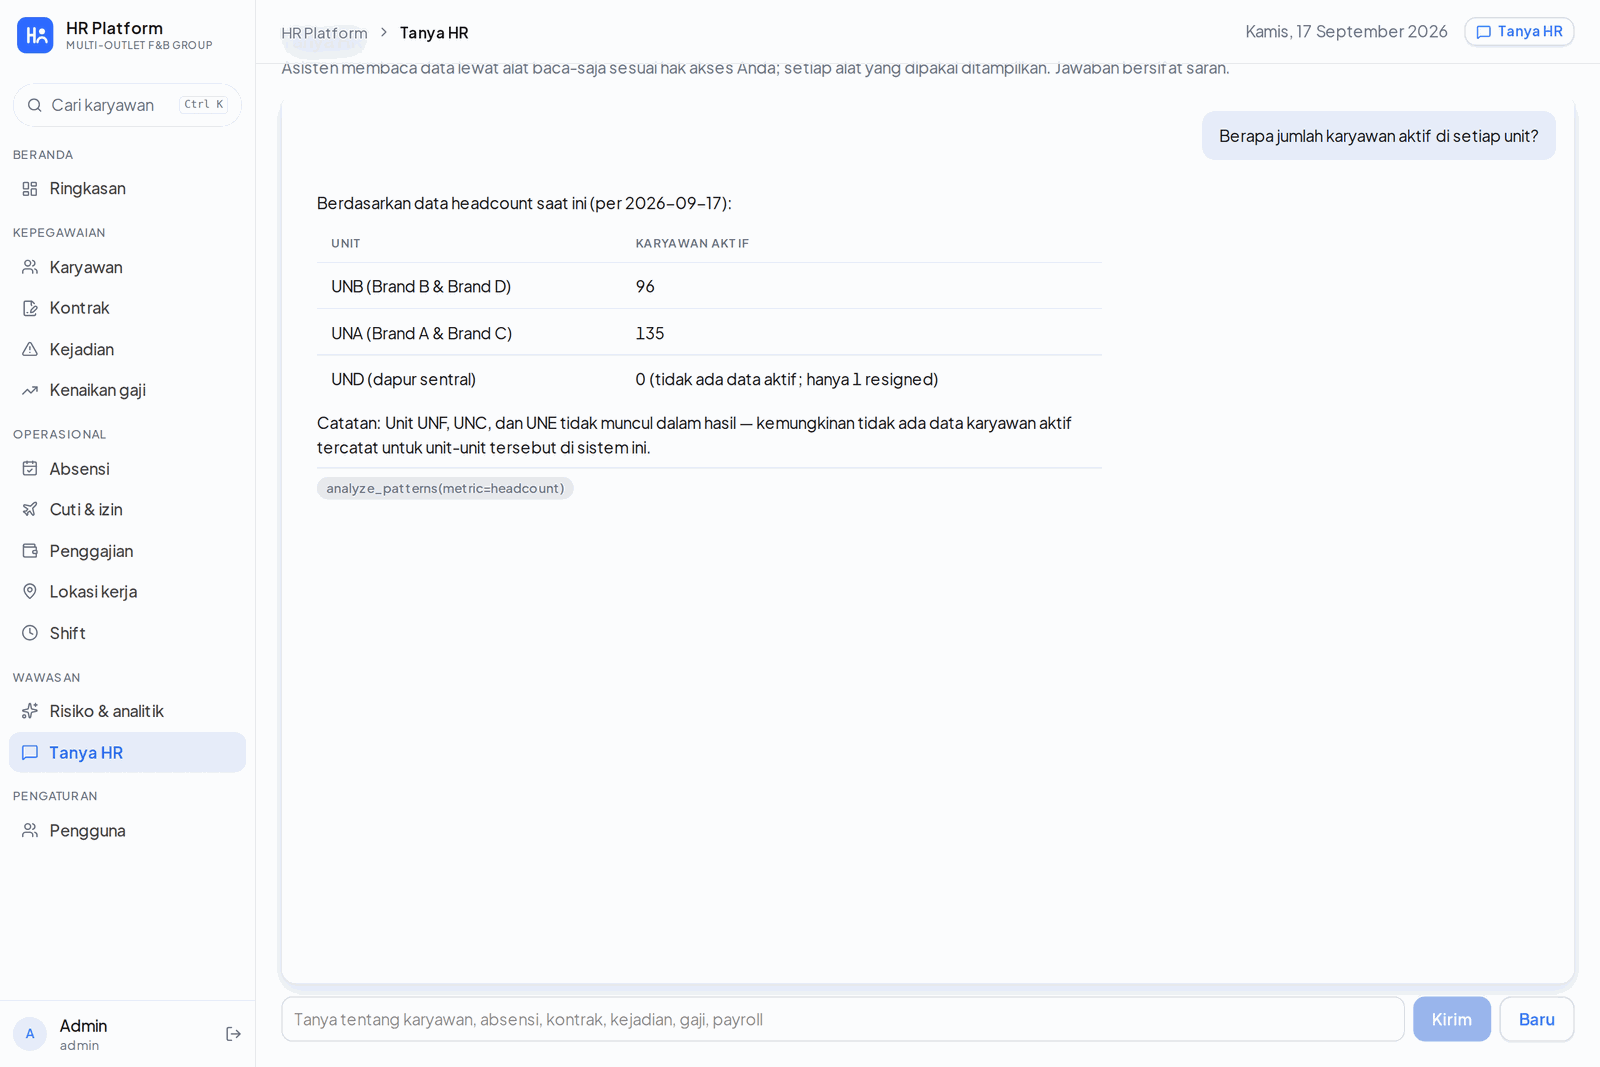
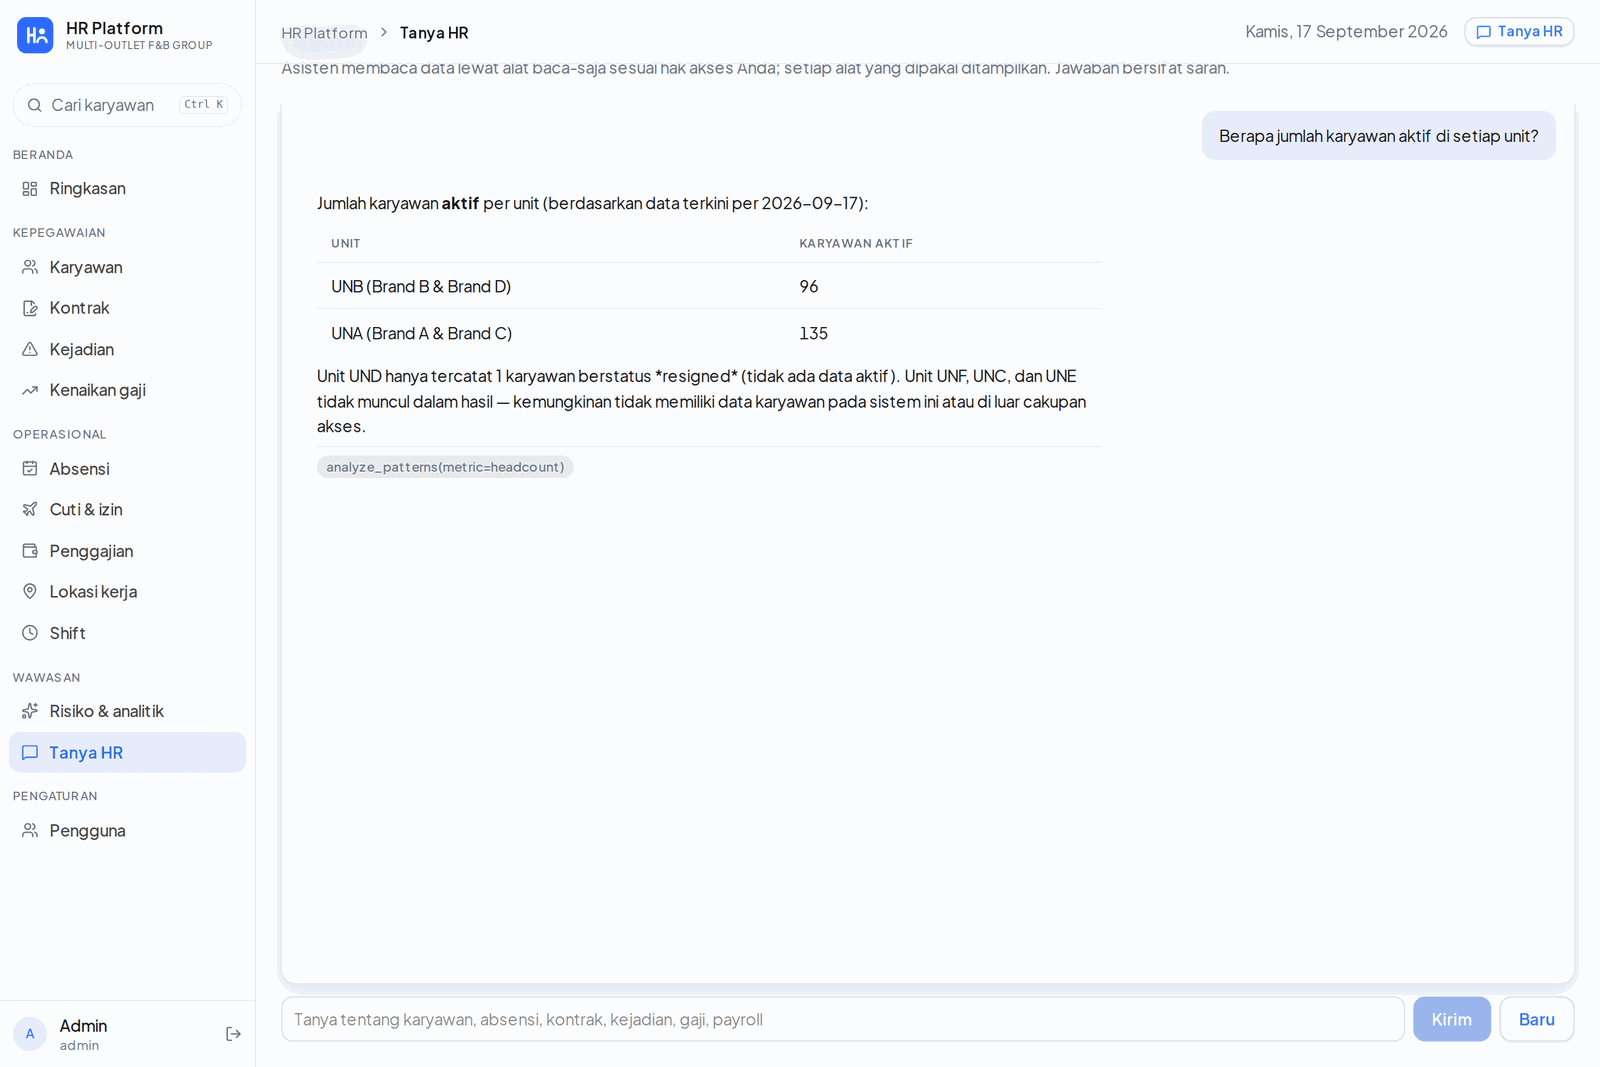
Add a mobile and kiosk section, and deepen the screenshot scrubbing
The sidebar now carries a "Mobile & Kiosk Apps" group with its own page on the
Flutter app: the two run modes from one binary, the server-issued liveness
challenge, the offline clock queue, device binding, kiosk pairing, and shipping
updates outside the Play Store.

Screenshots are re-shot with employee numbers renumbered and outlet districts
replaced, so a row can no longer be traced back to a real person or store even
by someone holding the original data.

Changed region(s): [[0.1875, 0.3402, 0.6875, 0.4639], [0.1875, 0.1856, 0.5625, 0.2474]]

diff --git a/docs/projects/face-attendance-mobile-kiosk.md b/docs/projects/face-attendance-mobile-kiosk.md
@@ -1,0 +1,123 @@
+# Face-Attendance Android App and Outlet Kiosk (Flutter)
+
+**Status:** Ongoing | Android app and store tablets in pilot, distributed outside the Play Store
+
+## Executive Summary
+
+One Flutter codebase that ships as **two different products**:
+
+- an **employee phone app**, where clocking in is a face verification inside a geofence, plus schedule, leave, incident notes and payslips;
+- the **same binary in kiosk mode on an outlet tablet**, a shared clock-in station bound to one work site, with no login and no session, so a whole crew clocks by face on a device nobody owns.
+
+It is built for kitchens and store floors rather than for a demo: bad signal is expected and queued, a tablet mid-service is never forced to update, no biometric computation happens on the device, and nothing the app claims about liveness is trusted by the server.
+
+This is the employee-facing half of the [HR & Face-Attendance Platform](hr-attendance-platform.md), which covers the backend, the HR dashboard and the compliance model.
+
+---
+
+## Key Results
+
+| Metric | Value |
+|--------|-------|
+| Codebase | ~4,000 lines of Dart, one app, two run modes |
+| Framework | Flutter 3.35 (Dart SDK 3.5+), Android first |
+| Phone screens | login, home, clock in/out, face enrollment, history, corrections, leave, incidents, payslip, profile |
+| Kiosk screens | pairing, home clock, clock in/out, face enrollment for that site |
+| Liveness | server-issued head-turn challenge, 3-frame burst, verified server-side |
+| Offline | file-backed clock queue, replayed in order with the original client timestamp |
+| Distribution | self-update from a published manifest, one build per CPU architecture |
+
+---
+
+## The Phone App
+
+<div style="display:flex;gap:1.5em;flex-wrap:wrap;align-items:flex-start;">
+<img src="../../images/hrp-mobile-home.png" alt="Employee app home screen" width="300">
+<img src="../../images/hrp-mobile-history.png" alt="Attendance history in the app" width="300">
+</div>
+
+The home screen answers the only question a crew member has at the start of a shift: am I clocked in, what shift am I on, and is my face enrolled yet. Everything else (history, leave, incidents, payslip) sits behind the tab bar as their own copy of their record.
+
+Employees sign in with phone number and OTP, and the account is then **bound to that device**. The fingerprint is a stable per-install value kept in secure storage rather than the Android ID alone, which is not stable enough across a factory reset, and re-binding a person to a new phone is deliberately an explicit HR action rather than something the app can do quietly.
+
+---
+
+## How a Clock-In Actually Works on the Device
+
+The device is treated as hostile, because an attendance record is a payroll input.
+
+**1. The server issues the challenge.** The app asks for a liveness challenge and gets back which head turn this attempt must prove and how many frames to send. The app does not choose it and cannot replay an old one.
+
+**2. The app coaches, ML Kit measures.** Google ML Kit face detection runs on the camera stream to check framing, and a small state machine walks the user through neutral, turn, neutral, telling them when each still is being taken. Its job is to help the person succeed, not to decide anything.
+
+**3. A three-frame burst goes up, not a single photo.** The server verifies the turn actually happened across the frames, checks replay hashes so a burst captured once cannot be sent twice, scores texture for passive anti-spoofing, and only then compares the face against the enrolled template. The comment in the app's own liveness module says it plainly: nothing the app claims about liveness is trusted any more.
+
+**4. Location and device metadata ride along.** A GPS fix with its accuracy, the mock-location flag, the device fingerprint and the client timestamp are all part of the submission, and the backend decides the geofence verdict.
+
+**No embedding is ever computed on the phone.** The face template lives only on the server, encrypted, which is what lets thresholds be retuned without shipping an app release and keeps biometric data out of an APK that anyone can pull off a device.
+
+---
+
+## Offline Is the Normal Case
+
+Kitchens and back-of-house corridors do not have signal, so an offline clock is a first-class path rather than an error state.
+
+A clock captured without connectivity is written to a **file-backed queue**: the photo alongside a JSON record carrying the event type, coordinates, accuracy, mock-location flag, device fingerprint and the original client timestamp. On reconnect the queue is replayed in order, still carrying that original timestamp, so the server records when the person actually clocked and flags the event as **late-synced**, with no live challenge behind it. HR sees that distinction on the dashboard instead of an offline clock silently pretending to be a normal one.
+
+---
+
+## Kiosk Mode: the Same App as a Shared Store Clock
+
+![Kiosk home screen on the outlet tablet](../images/hrp-kiosk-home.png)
+
+High turnover and staff who would rather not install a work app on their own phone make the shared tablet the realistic clock for an outlet. The same binary becomes one when it is paired.
+
+![Pairing a tablet to a work site](../images/hrp-kiosk-pairing.png)
+
+HR generates a six-character pairing code per site. The tablet consumes it once and stores a long-lived kiosk token, and from then on it only ever shows kiosk screens. The code is single-use and expires; HR can issue a fresh one or revoke the tablet, and the old token dies immediately.
+
+What changes in kiosk mode, beyond the layout:
+
+- **No session at all.** The tablet holds no employee login and no templates. Every clock is a fresh identification request.
+- **Liveness carries the whole weight.** Without a login there is no second factor, so the head-turn challenge and the server-side burst verification are the only thing between a photograph and a payroll record.
+- **Matching is scoped to the site roster** for that day, never company-wide, which is both a privacy control and an accuracy one. A borderline match, or a best match that fails to beat the runner-up by a margin, makes the tablet ask for the employee's NIK and re-check one to one instead of guessing.
+- **It behaves like an appliance.** The screen is kept awake, it works in portrait and landscape, and it returns to the home clock automatically a few seconds after showing a result, ready for the next person in the queue. Android screen pinning is enabled by the installer so the app cannot be closed at the outlet.
+
+---
+
+## Shipping Without the Play Store
+
+The app is distributed directly while it is in pilot, which means updates had to be solved rather than assumed.
+
+The server publishes a small version manifest next to the APK. The app compares its own build number against it and offers to download and install the new one. A `min_build` field is the escape hatch for a release nobody may skip, such as a changed API contract or a security fix: below that number the notice stops being dismissible. Everything else stays a suggestion the person can defer to the end of a shift, which matters on a tablet that is mid-service.
+
+One detail that had to be discovered the hard way: Flutter rewrites `versionCode` when building per CPU architecture, so an arm64 build reports 2006 where the real build is 6. Compared raw against the published number, every device would look permanently newer than any release and no update would ever be offered again. The app normalises the code and the publish script refuses build numbers at or above 1000, so the two can never be ambiguous.
+
+---
+
+## Technology Stack
+
+| Concern | Choice |
+|---------|--------|
+| Framework | Flutter 3.35, Dart SDK 3.5+, Android |
+| State and routing | Riverpod, go_router |
+| Networking | dio, with a typed API client and rotating refresh tokens |
+| Face and liveness | Google ML Kit face detection on device, server-side ArcFace verification |
+| Camera | camera plugin, three-frame burst capture |
+| Location | geolocator with accuracy and mock-location reporting |
+| Offline | file-backed clock queue (drift/SQLite for the background sync worker next) |
+| Security | flutter_secure_storage for the device fingerprint and tokens |
+| Kiosk | wakelock_plus, single-site kiosk token, Android screen pinning |
+| Release | self-update from a published manifest, per-architecture builds, `flutter analyze` clean in CI |
+
+---
+
+## Status
+
+The app compiles clean, runs against the staging backend, and is installed on pilot devices from a fixed download link. Kiosk mode was verified end to end on an Android tablet against staging. The remaining work before a wide rollout is the WhatsApp gateway for OTP delivery and threshold tuning from real pilot clock-ins at the first outlets.
+
+For the backend, the HR dashboard, the contract and turnover intelligence and the personal-data model behind all of this, see the [HR & Face-Attendance Platform](hr-attendance-platform.md).
+
+---
+
+*Built for a private client. Company name, brands, outlets and employee data are omitted or replaced throughout. The app screenshots come from a test account on a test outlet, not from a real employee or a real store.*

diff --git a/docs/projects/index.md b/docs/projects/index.md
@@ -20,6 +20,22 @@ Built with no ERP sandbox and no test tenant, so every safety property had to be
 
 ---
 
+## Mobile & Kiosk Apps
+
+### [Face-Attendance Android App + Outlet Kiosk](face-attendance-mobile-kiosk.md) `FLUTTER` `PILOT`
+
+One Flutter codebase shipping as two products: an employee phone app where clocking in is a face verification inside a geofence, and the same binary running as a **shared outlet kiosk tablet** with no login and no session, bound to one work site.
+
+Built for store floors rather than for a demo: a server-issued head-turn liveness challenge with a three-frame burst verified server-side (nothing the app claims about liveness is trusted), **no face embedding ever computed on the device**, a file-backed offline clock queue replayed with its original timestamp and flagged as late-synced, device binding through a fingerprint in secure storage, and self-updating outside the Play Store from a published manifest with a non-dismissible floor for releases nobody may skip.
+
+**Technologies:** Flutter, Dart, Riverpod, go_router, dio, Google ML Kit face detection, camera, geolocator, drift/SQLite, flutter_secure_storage, wakelock_plus
+
+**Highlights:** 2 run modes from one binary, ~4,000 lines of Dart, offline-first clock-in, roster-scoped kiosk matching with a NIK fallback, per-architecture release handling
+
+[View Project ->](face-attendance-mobile-kiosk.md)
+
+---
+
 ## Ongoing: Workforce Platforms
 
 ### [HR & Face-Attendance Platform](hr-attendance-platform.md) `STAGING, PILOT`

diff --git a/docs/index.md b/docs/index.md
@@ -41,6 +41,7 @@ My work spans:
 - **MLOps & Model Deployment** — Automated training pipelines, model registry, 24 production models, CI/CD with GitHub Actions
 - **GPU Computing** — NVIDIA CUDA, PyTorch cu128, Docker GPU passthrough, VRAM budgeting, Blackwell sm_120 compatibility
 - **Cloud & Infrastructure** — Google Cloud Platform (Cloud Run, Cloud SQL, Secret Manager), Docker, Kubernetes, Kafka, Terraform
+- **Mobile & Kiosk Applications** - Flutter Android apps, on-device ML Kit liveness, offline-first sync queues, device binding, and shared-tablet kiosk mode with out-of-store release management
 - **Computer Vision & Video Analytics** - Detection and multi-object tracking (YOLO11, ByteTrack), behavioural event modelling from trajectories, zone geometry design, CPU-only reproducible pipelines
 - **Multimodal AI** — NLP (spaCy, Transformers), Vision (CLIP, YOLOv8), Audio (Whisper), Vector Search (pgvector)
 - **Published Work** — Models and datasets on HuggingFace, AI testing framework on npm (@robi-atp/cli)

diff --git a/docs/projects/hr-attendance-platform.md b/docs/projects/hr-attendance-platform.md
@@ -242,4 +242,4 @@ Biometric templates and precise location are specific personal data under UU PDP
 
 ---
 
-*Built for a private client. Company name, brands, outlets and employee data are omitted or replaced throughout: the screenshots are taken from the running system with brands rendered as "Brand A" to "Brand D", entity codes as "UNA" to "UNF", and every personal name replaced with a generated one. Architecture, engineering decisions and metrics are described as built.*
+*Built for a private client. Company name, brands, outlets and employee data are omitted or replaced throughout: the screenshots are taken from the running system with brands rendered as "Brand A" to "Brand D", outlet districts as "Lokasi 01" onward, entity codes as "UNA" to "UNF", employee numbers renumbered, and every personal name replaced with a generated one. No name, number or location shown belongs to a real person or a real store. Architecture, engineering decisions and metrics are described as built.*
